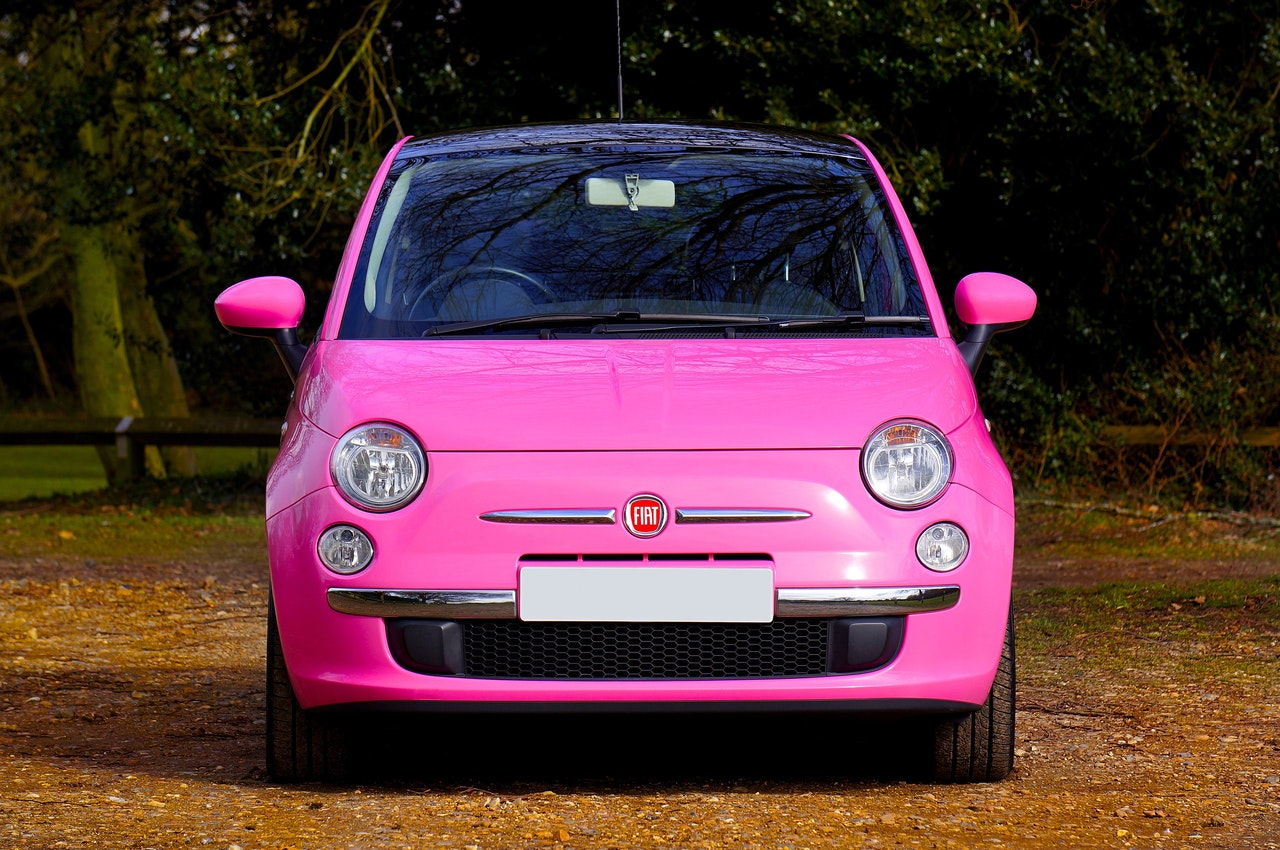
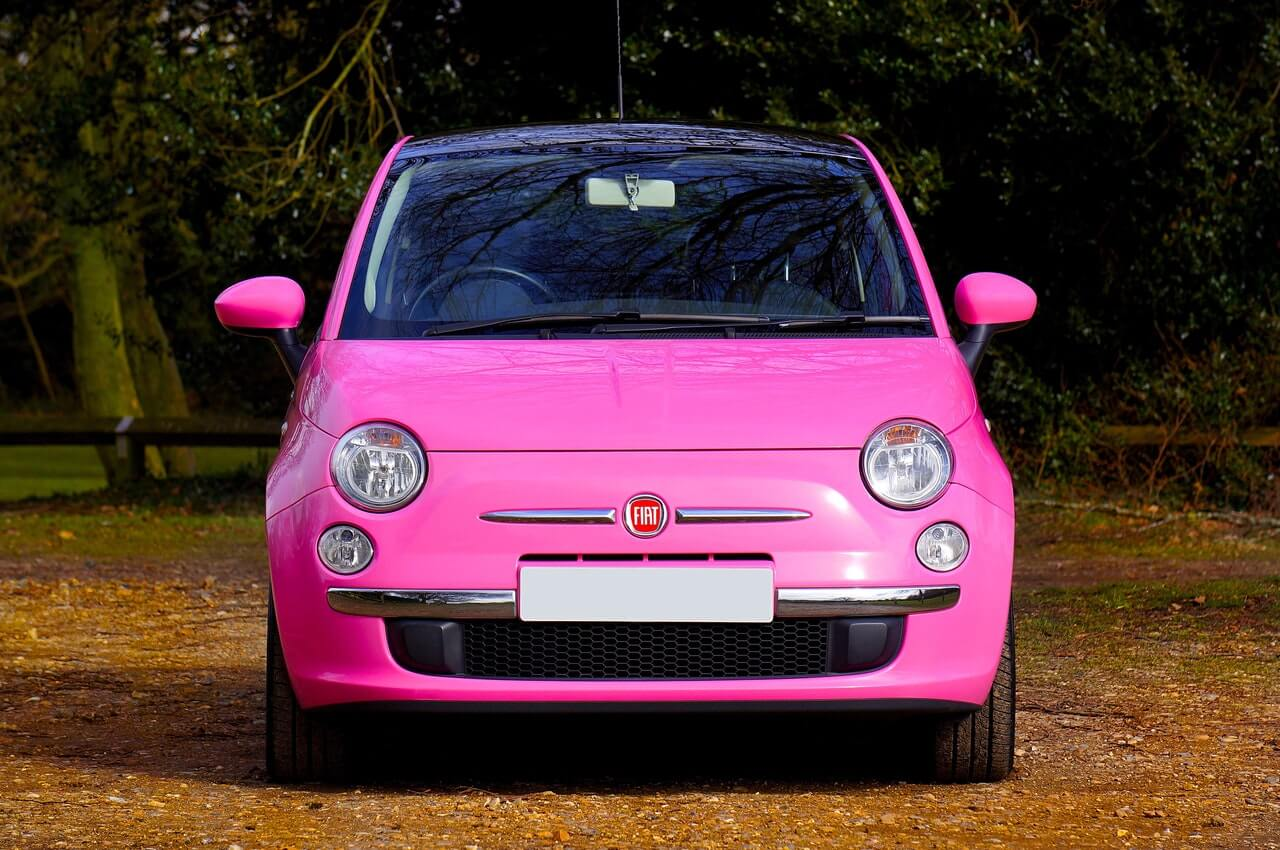
Compressed some images

diff --git a/src/styles.min.css b/src/styles.min.css
@@ -1,1 +1,1 @@
-@import url("https://fonts.googleapis.com/css2?family=DM+Sans:wght@400;500;700&display=swap");.banner{display:flex;flex-direction:column;align-items:center;justify-content:center;text-align:center;width:100%;min-height:200px;height:20vh;background-color:rgba(11,19,43,0.2);background-image:url("./img/car_main.jpg");background-position:center;background-repeat:no-repeat;background-size:cover;color:#fff;padding:1rem 1rem;margin-bottom:2rem;overflow:hidden}.banner .text-helper{background-color:rgba(0,0,0,0.4);border:1px solid #fff;border-radius:6px;padding:1rem 1rem;overflow:hidden}.banner h1{font-size:4rem;overflow:hidden}.banner p{font-size:2rem;overflow:hidden}@media only screen and (max-width: 1000px){.banner .text-helper h1{font-size:3rem}.banner .text-helper p{font-size:1.75rem}}@media only screen and (max-width: 700px){.banner .text-helper h1{font-size:1.8rem}.banner .text-helper p{font-size:1.1rem}}.navbar{width:100%;height:4rem;z-index:1;background-color:#0b132b;border-bottom:5px solid #6fffe9;font-size:1rem;display:flex;justify-content:space-between}.navbar img{border:1px solid red;border-radius:50px;height:2.5rem;width:2.5rem;margin:0.5rem 1rem 0.5rem 2.5rem;background-color:#fff}.navbar p{color:#fff;margin:1rem 0 0 0;font-size:1.2rem}.navbar .hamburger{z-index:1;padding:0 1rem 0 0;margin:0 1.4rem 0 0;display:flex;flex-direction:column;justify-content:center;display:none;overflow:hidden;user-select:none}.navbar .hamburger ul{display:flex;height:0px;width:100%;flex-direction:column;justify-content:center;align-items:center;position:absolute;top:59px;right:0px;margin:0 0 0 0rem;padding:0.5rem 1rem;opacity:0;background:transparent;color:#fff;list-style-type:none;overflow:hidden;-webkit-font-smoothing:antialiased;transform-origin:0% 0%;transform:translate(0%, -100%);transition:transform 0.4s cubic-bezier(0.77, 0.2, 0.05, 1),height 0.4s cubic-bezier(0.77, 0.2, 0.05, 1),opacity 0.7s cubic-bezier(0.77, 0.2, 0.05, 1)}.navbar .hamburger ul li{display:flex;justify-content:center;align-items:center;height:fit-content;margin:0.5rem 0.5rem;overflow:hidden;text-align:center}.navbar .hamburger ul li a{font-size:1rem;text-decoration:none;color:#fff;overflow:hidden;padding:0.25rem 0;margin:0 0}.navbar .hamburger ul li a:hover,.navbar .hamburger ul li a:focus{border-bottom:1px solid #6fffe9}.navbar .hamburger input:checked ~ ul{height:fit-content;opacity:1;background-color:#0b132b;border-bottom:5px solid #6fffe9;transform:none}.navbar .hamburger input{display:block;position:absolute;top:0;right:25px;z-index:2;cursor:pointer;width:60px;height:32px;height:3.7rem;opacity:0;-webkit-touch-callout:none}.navbar .hamburger div{display:block;width:33px;height:4px;position:relative;border-radius:6px;background:#fff;margin:4px 0;z-index:1;transform-origin:4px 0px;transition:transform 0.5s cubic-bezier(0.77, 0.2, 0.05, 1),opacity 0.55s ease}.navbar .hamburger div:first-of-type{transform-origin:0% 0%}.navbar .hamburger div:last-of-type{transform-origin:0% 100%}.navbar .hamburger input:checked ~ div{opacity:1;transform:rotate(45deg) translate(1px, -3px)}.navbar .hamburger input:checked ~ div:nth-child(3){opacity:0;transform:rotate(0deg) scale(0.2, 0.2)}.navbar .hamburger input:checked ~ div:last-of-type{transform:rotate(-45deg) translate(4px, -1px)}.navbar .desktop-menu-links{margin-left:auto;margin:0.5rem 2.5rem 0 auto;display:flex;flex-direction:row;list-style:none;overflow:hidden}.navbar .desktop-menu-links li{text-align:left;height:fit-content;display:flex}.navbar .desktop-menu-links a{text-decoration:none;color:#fff;margin:0 1rem 0 0;padding:0.5rem 0rem 0.2rem 0}.navbar .desktop-menu-links a:hover,.navbar .desktop-menu-links a:focus{border-bottom:1px solid #6fffe9}@media only screen and (max-width: 1000px){.navbar .hamburger{display:flex}.navbar p{font-size:1.2rem;margin-right:auto}.navbar .desktop-menu-links{display:none;flex-direction:column;margin:0 0 0 0;padding:1rem 0.5rem 0.3rem 0.5rem;position:absolute;top:50px;right:0;z-index:3;background-color:#0b132b}.navbar .desktop-menu-links li{height:2.5rem;overflow:hidden}.navbar .desktop-menu-links a{text-decoration:none;color:#fff;line-height:1;margin:0.5rem 0.5rem;font-size:0.9rem;overflow:hidden}}.main-grid{display:grid;grid-template-columns:repeat(5, 1fr);gap:1rem;overflow:hidden;padding-bottom:1rem}.main-grid .card{background-color:#0b132b;color:#fff;border:2px solid #6fffe9;min-height:400px;height:fit-content;width:100%;overflow:hidden}.main-grid .card .img-card-top{height:325px;object-fit:cover;width:100%;border-bottom:2px solid #fff;position:relative}.main-grid .card .card-title{color:#6fffe9;border-bottom:2px solid #6fffe9;font-size:1.2rem;text-align:center;margin:0.5rem 1.5rem 1rem 1.5rem;padding-bottom:0.3rem;text-transform:capitalize}.main-grid .card .card-text{color:#fff;font-size:0.9rem;text-align:center;margin:0.8rem 1rem;overflow:hidden;line-height:1.5}.main-grid .card .card-bottom-text{font-size:1.2rem;font-weight:500;text-align:center;margin:1rem 1.5rem;padding-top:0.3rem;border-top:2px solid #fff}.main-grid .card .card-bottom-text .previous-price{font-size:inherit;margin:0 0.8rem 0 0;font-style:italic;text-decoration:line-through #fff solid}.main-grid .card .card-bottom-text .now{font-size:inherit;color:#6fffe9;margin:0 0.4rem 0 0}.main-grid .card .inner-card-grid{display:grid;gap:1rem;grid-template-columns:repeat(3, 1fr);text-align:center;margin:0.8rem 1rem;padding:0 0 0 1.5rem;overflow:hidden}.main-grid .card .inner-card-grid .inner-card-grid-item{display:flex;flex-direction:row;overflow:hidden;text-transform:capitalize}.main-grid .card .inner-card-grid .inner-card-grid-item i{color:#6fffe9;font-size:2.2rem}.main-grid .card .inner-card-grid .inner-card-grid-item p{color:#fff;font-size:0.9rem;margin:0.5rem 0 0 0.5rem}.card:hover,.card:focus{transform:scale(1.03);transition:ease 0.6s;background-color:rgba(11,19,43,0.5);border:1px solid transparent}.card:hover .img-card-top,.card:focus .img-card-top{opacity:0.5;transition:ease 0.6s}.card:hover .card-title,.card:focus .card-title{color:rgba(111,255,233,0.5);transition:ease 0.6s}.card:hover .card-text,.card:focus .card-text{color:rgba(255,255,255,0.5);transition:ease 0.6s}.card:hover .card-bottom-text,.card:focus .card-bottom-text{color:rgba(255,255,255,0.5);transition:ease 0.6s}.card:hover .inner-card-grid .inner-card-grid-item i,.card:focus .inner-card-grid .inner-card-grid-item i{color:rgba(111,255,233,0.5);transition:ease 0.6s}.card:hover .inner-card-grid .inner-card-grid-item p,.card:focus .inner-card-grid .inner-card-grid-item p{color:rgba(255,255,255,0.5);transition:ease 0.6s}@media only screen and (max-width: 2200px){.main-grid .card .inner-card-grid{gap:0.9rem;grid-template-columns:1fr 1fr}.main-grid .card .inner-card-grid .inner-card-grid-item i{font-size:2rem}.main-grid .card .inner-card-grid .inner-card-grid-item p{margin:0.5rem 0 0 0.4rem}}@media only screen and (max-width: 1600px){.main-grid{grid-template-columns:1fr 1fr 1fr 1fr;gap:1rem}}@media only screen and (max-width: 1250px){.main-grid{grid-template-columns:1fr 1fr 1fr}}@media only screen and (max-width: 1000px){.main-grid{grid-template-columns:1fr 1fr;gap:1rem}}@media only screen and (max-width: 700px){.main-grid{grid-template-columns:1fr}.main-grid .card .inner-card-grid{gap:0.9rem;grid-template-columns:1fr 1fr}.main-grid .card .inner-card-grid .inner-card-grid-item p{font-size:1rem}}@media only screen and (max-width: 350px){.main-grid .card .inner-card-grid{gap:0.8rem;margin:0.8rem 0.3rem;padding:0 0 0 0.8rem}.main-grid .card .inner-card-grid .inner-card-grid-item p{font-size:0.9rem}}.info-grid{display:grid;gap:0;overflow:hidden;width:100%;border:2px solid #6fffe9;grid-template-columns:1fr 1fr 2fr;grid-auto-rows:minmax(150px, 300px)}.info-grid .info-grid-item{width:100%;height:100%;color:#fff;overflow:hidden}.info-grid .info-grid-item img{opacity:0.9;height:100%;object-fit:cover;width:100%}.info-grid .info-grid-item .info-grid-item-content{display:flex;flex-direction:column;overflow:hidden;padding:2rem}.info-grid .info-grid-item .info-grid-item-content h3{font-size:1.6rem;font-weight:700;overflow:hidden;margin:0 auto 0.5rem 0;border-bottom:solid 5px #6fffe9}.info-grid .info-grid-item .info-grid-item-content p{font-size:1.1rem;overflow:hidden;margin:0 0 1.5rem 0}.info-grid-item:first-child{background-color:grey}.info-grid-item:nth-child(3){grid-row:1/3}.info-grid-item:last-child{background-color:#0b132b}@media only screen and (max-width: 1000px){.info-grid{grid-template-columns:1fr 1fr 1fr;grid-auto-rows:minmax(150px, 200px)}.info-grid .info-grid-item .info-grid-item-content{padding:1rem}.info-grid .info-grid-item .info-grid-item-content h3{font-size:1.4rem}.info-grid .info-grid-item .info-grid-item-content p{font-size:1rem}}@media only screen and (max-width: 700px){.info-grid{grid-template-columns:0 1fr 1fr;grid-auto-rows:minmax(150px, 200px)}.info-grid .info-grid-item .info-grid-item-content{padding:0.5rem}.info-grid .info-grid-item .info-grid-item-content h3{font-size:1.2rem;margin:0 auto 0.5rem 0}.info-grid .info-grid-item .info-grid-item-content p{font-size:0.8rem;margin:0 0 1rem 0}.info-grid .info-grid-item .info-grid-item-content .btn,.info-grid .info-grid-item .info-grid-item-content .primary-btn,.info-grid .info-grid-item .info-grid-item-content .secondary-btn{border:2px solid;border-radius:6px;padding:0.4rem 0.5rem;font-size:0.9rem}}.footer{display:grid;grid-template-columns:1fr 1fr 1fr 1fr 1fr;gap:1rem;width:100vw;background-color:#0b132b;color:#fff;height:fit-content;padding:1rem 1.5rem}.footer ul{list-style:none;overflow:hidden;height:fit-content;width:fit-content}.footer .footer-title{color:#6fffe9;border-bottom:2px solid #6fffe9;font-size:1.1rem;text-align:center;margin:0.5rem 1.5rem}.footer li{overflow:hidden;width:fit-content}.footer p{text-decoration:none;color:#fff;line-height:1.8;width:fit-content}.footer a{text-decoration:none;color:#fff;line-height:2;width:fit-content;padding:0 0 0.2rem 0}.footer a i{vertical-align:middle;font-size:1.1rem;margin-right:0.2rem}.footer a:hover,.footer a:focus{border-bottom:1px solid #6fffe9}.credits{background-color:#0b132b;text-align:center;padding-bottom:1rem;margin-top:-1px}.credits a{text-decoration:none;font-size:0.9rem;color:#6fffe9}.credits a i{vertical-align:text-bottom;font-size:1.5rem}.credits a:hover,.credits a:focus{border-bottom:1px solid #6fffe9}@media only screen and (max-width: 1500px){.footer{grid-template-columns:1fr 1fr 1fr 1fr}}@media only screen and (max-width: 1000px){.footer{grid-template-columns:1fr 1fr 1fr;gap:0.5rem;padding:0.8rem 0 0.9rem 0.6rem}.footer ul a{font-size:0.9rem}.footer ul:last-of-type{display:none}}@media only screen and (max-width: 750px){.footer{grid-template-columns:1fr 1fr}.footer ul{padding-left:1.2rem}.footer ul .footer-title{font-size:1rem}.footer ul li{padding-right:0rem}.footer ul a{font-size:0.9rem}.footer ul p{font-size:0.9rem}}@media only screen and (max-width: 350px){.footer ul{padding:0 0.5rem 0 1.2rem}.footer ul .footer-title{font-size:0.9rem}.footer ul a{font-size:0.8rem}.footer ul p{font-size:0.8rem}.credits a{font-size:0.8rem}.credits a i{font-size:1.4rem}}*{box-sizing:border-box;font-family:'DM Sans', sans-serif;margin:0;font-size:16px;overflow-x:hidden}html{scroll-behavior:smooth}.container{width:100vw}.content{display:flex;flex-direction:column;width:100%;padding:1rem 2rem;margin:2vh 0 0 0}.section-heading{display:flex;flex-direction:row;justify-content:center;text-align:center;border-bottom:5px solid #6fffe9;margin:1rem auto 1.6rem 0}.section-heading h3{font-size:1.75rem;font-weight:700}.btn,.primary-btn,.secondary-btn{border:2px solid;border-radius:6px;padding:0.5rem 0.7rem;max-width:20%;min-width:fit-content;text-align:center;transition:all 0.1s ease}.primary-btn{background-color:#0b132b;color:#6fffe9}.secondary-btn{background-color:#757575;color:#fff}.btn:hover,.primary-btn:hover,.secondary-btn:hover,.btn:focus,.primary-btn:focus,.secondary-btn:focus{transform:translateY(-2px);box-shadow:1px 1px 10px #6fffe9;-moz-box-shadow:1px 1px 10px #6fffe9;-webkit-box-shadow:1px 1px 10px #6fffe9}.btn:active,.primary-btn:active,.secondary-btn:active{transform:translateY(-4px) scale(1.05)}.error{color:#fff}.error{background-color:red}body::-webkit-scrollbar{width:1rem}body::-webkit-scrollbar-track{background:#0b132b}body::-webkit-scrollbar-thumb{background:#6fffe9}@media only screen and (max-width: 700px){.content{margin:1vh 0 0 0}}
+@import url("https://fonts.googleapis.com/css2?family=DM+Sans:wght@400;500;700&display=swap");.banner{display:flex;flex-direction:column;align-items:center;justify-content:center;text-align:center;width:100%;min-height:200px;height:20vh;background-color:rgba(11,19,43,0.2);background-image:url("./img/car_main.jpg");background-position:center;background-repeat:no-repeat;background-size:cover;color:#fff;padding:1rem 1rem;margin:0 0 1.8rem 0;overflow:hidden}.banner .text-helper{background-color:rgba(0,0,0,0.4);border:1px solid #fff;border-radius:6px;padding:1rem 1rem;overflow:hidden}.banner h1{font-size:4rem;overflow:hidden}.banner p{font-size:2rem;overflow:hidden}@media only screen and (max-width: 1000px){.banner .text-helper h1{font-size:3rem}.banner .text-helper p{font-size:1.75rem}}@media only screen and (max-width: 700px){.banner .text-helper h1{font-size:1.8rem}.banner .text-helper p{font-size:1.1rem}}.navbar{width:100%;height:4rem;z-index:1;background-color:#0b132b;border-bottom:5px solid #6fffe9;font-size:1rem;display:flex;justify-content:space-between}.navbar img{border:1px solid red;border-radius:50px;height:2.5rem;width:2.5rem;margin:0.5rem 1rem 0.5rem 2.5rem;background-color:#fff}.navbar p{color:#fff;margin:1rem 0 0 0;font-size:1.2rem}.navbar .hamburger{z-index:1;padding:0 1rem 0 0;margin:0 1.4rem 0 0;display:flex;flex-direction:column;justify-content:center;display:none;overflow:hidden;user-select:none}.navbar .hamburger ul{display:flex;height:0px;width:100%;flex-direction:column;justify-content:center;align-items:center;position:absolute;top:59px;right:0px;margin:0 0 0 0rem;padding:0.5rem 1rem;opacity:0;background:transparent;color:#fff;list-style-type:none;overflow:hidden;-webkit-font-smoothing:antialiased;transform-origin:0% 0%;transform:translate(0%, -100%);transition:transform 0.4s cubic-bezier(0.77, 0.2, 0.05, 1),height 0.4s cubic-bezier(0.77, 0.2, 0.05, 1),opacity 0.7s cubic-bezier(0.77, 0.2, 0.05, 1)}.navbar .hamburger ul li{display:flex;justify-content:center;align-items:center;height:fit-content;margin:0.5rem 0.5rem;overflow:hidden;text-align:center}.navbar .hamburger ul li a{font-size:1rem;text-decoration:none;color:#fff;overflow:hidden;padding:0.25rem 0;margin:0 0}.navbar .hamburger ul li a:hover,.navbar .hamburger ul li a:focus{border-bottom:1px solid #6fffe9}.navbar .hamburger input:checked ~ ul{height:fit-content;opacity:1;background-color:#0b132b;border-bottom:5px solid #6fffe9;transform:none}.navbar .hamburger input{display:block;position:absolute;top:0;right:25px;z-index:2;cursor:pointer;width:60px;height:32px;height:3.7rem;opacity:0;-webkit-touch-callout:none}.navbar .hamburger div{display:block;width:33px;height:4px;position:relative;border-radius:6px;background:#fff;margin:4px 0;z-index:1;transform-origin:4px 0px;transition:transform 0.5s cubic-bezier(0.77, 0.2, 0.05, 1),opacity 0.55s ease}.navbar .hamburger div:first-of-type{transform-origin:0% 0%}.navbar .hamburger div:last-of-type{transform-origin:0% 100%}.navbar .hamburger input:checked ~ div{opacity:1;transform:rotate(45deg) translate(1px, -3px)}.navbar .hamburger input:checked ~ div:nth-child(3){opacity:0;transform:rotate(0deg) scale(0.2, 0.2)}.navbar .hamburger input:checked ~ div:last-of-type{transform:rotate(-45deg) translate(4px, -1px)}.navbar .desktop-menu-links{margin-left:auto;margin:0.5rem 2.5rem 0 auto;display:flex;flex-direction:row;list-style:none;overflow:hidden}.navbar .desktop-menu-links li{text-align:left;height:fit-content;display:flex}.navbar .desktop-menu-links a{text-decoration:none;color:#fff;margin:0 1rem 0 0;padding:0.5rem 0rem 0.2rem 0}.navbar .desktop-menu-links a:hover,.navbar .desktop-menu-links a:focus{border-bottom:1px solid #6fffe9}@media only screen and (max-width: 1000px){.navbar .hamburger{display:flex}.navbar p{font-size:1.2rem;margin-right:auto}.navbar .desktop-menu-links{display:none;flex-direction:column;margin:0 0 0 0;padding:1rem 0.5rem 0.3rem 0.5rem;position:absolute;top:50px;right:0;z-index:3;background-color:#0b132b}.navbar .desktop-menu-links li{height:2.5rem;overflow:hidden}.navbar .desktop-menu-links a{text-decoration:none;color:#fff;line-height:1;margin:0.5rem 0.5rem;font-size:0.9rem;overflow:hidden}}.main-grid{display:grid;grid-template-columns:repeat(5, 1fr);gap:1rem;overflow:hidden;padding-bottom:1rem}.main-grid .card{background-color:#0b132b;color:#fff;border:2px solid #6fffe9;min-height:400px;height:fit-content;width:100%;overflow:hidden}.main-grid .card .img-card-top{height:325px;object-fit:cover;width:100%;border-bottom:2px solid #fff;position:relative}.main-grid .card .card-title{color:#6fffe9;border-bottom:2px solid #6fffe9;font-size:1.2rem;text-align:center;margin:0.5rem 1.5rem 1rem 1.5rem;padding-bottom:0.3rem;text-transform:capitalize}.main-grid .card .card-text{color:#fff;font-size:0.9rem;text-align:center;margin:0.8rem 1rem;overflow:hidden;line-height:1.5}.main-grid .card .card-bottom-text{font-size:1.2rem;font-weight:500;text-align:center;margin:1rem 1.5rem;padding-top:0.3rem;border-top:2px solid #fff}.main-grid .card .card-bottom-text .previous-price{font-size:inherit;margin:0 0.8rem 0 0;font-style:italic;text-decoration:line-through #fff solid}.main-grid .card .card-bottom-text .now{font-size:inherit;color:#6fffe9;margin:0 0.4rem 0 0}.main-grid .card .inner-card-grid{display:grid;gap:1rem;grid-template-columns:repeat(3, 1fr);text-align:center;margin:0.8rem 1rem;padding:0 0 0 1.5rem;overflow:hidden}.main-grid .card .inner-card-grid .inner-card-grid-item{display:flex;flex-direction:row;overflow:hidden;text-transform:capitalize}.main-grid .card .inner-card-grid .inner-card-grid-item i{color:#6fffe9;font-size:2.2rem}.main-grid .card .inner-card-grid .inner-card-grid-item p{color:#fff;font-size:0.9rem;margin:0.5rem 0 0 0.5rem}.card:hover,.card:focus{transform:scale(1.03);transition:ease 0.6s;background-color:rgba(11,19,43,0.5);border:1px solid transparent}.card:hover .img-card-top,.card:focus .img-card-top{opacity:0.5;transition:ease 0.6s}.card:hover .card-title,.card:focus .card-title{color:rgba(111,255,233,0.5);transition:ease 0.6s}.card:hover .card-text,.card:focus .card-text{color:rgba(255,255,255,0.5);transition:ease 0.6s}.card:hover .card-bottom-text,.card:focus .card-bottom-text{color:rgba(255,255,255,0.5);transition:ease 0.6s}.card:hover .inner-card-grid .inner-card-grid-item i,.card:focus .inner-card-grid .inner-card-grid-item i{color:rgba(111,255,233,0.5);transition:ease 0.6s}.card:hover .inner-card-grid .inner-card-grid-item p,.card:focus .inner-card-grid .inner-card-grid-item p{color:rgba(255,255,255,0.5);transition:ease 0.6s}@media only screen and (max-width: 2200px){.main-grid .card .inner-card-grid{gap:0.9rem;grid-template-columns:1fr 1fr}.main-grid .card .inner-card-grid .inner-card-grid-item i{font-size:2rem}.main-grid .card .inner-card-grid .inner-card-grid-item p{margin:0.5rem 0 0 0.4rem}}@media only screen and (max-width: 1600px){.main-grid{grid-template-columns:1fr 1fr 1fr 1fr;gap:1rem}}@media only screen and (max-width: 1250px){.main-grid{grid-template-columns:1fr 1fr 1fr}}@media only screen and (max-width: 1000px){.main-grid{grid-template-columns:1fr 1fr;gap:1rem}}@media only screen and (max-width: 700px){.main-grid{grid-template-columns:1fr}.main-grid .card .inner-card-grid{gap:0.9rem;grid-template-columns:1fr 1fr}.main-grid .card .inner-card-grid .inner-card-grid-item p{font-size:1rem}}@media only screen and (max-width: 350px){.main-grid .card .inner-card-grid{gap:0.8rem;margin:0.8rem 0.3rem;padding:0 0 0 0.8rem}.main-grid .card .inner-card-grid .inner-card-grid-item p{font-size:0.9rem}}.info-grid{display:grid;gap:0;overflow:hidden;width:100%;border:2px solid #6fffe9;grid-template-columns:1fr 1fr 2fr;grid-auto-rows:minmax(150px, 300px)}.info-grid .info-grid-item{width:100%;height:100%;color:#fff;overflow:hidden}.info-grid .info-grid-item img{opacity:0.9;height:100%;object-fit:cover;width:100%}.info-grid .info-grid-item .info-grid-item-content{display:flex;flex-direction:column;overflow:hidden;padding:2rem}.info-grid .info-grid-item .info-grid-item-content h3{font-size:1.6rem;font-weight:700;overflow:hidden;margin:0 auto 0.5rem 0;border-bottom:solid 5px #6fffe9}.info-grid .info-grid-item .info-grid-item-content p{font-size:1.1rem;overflow:hidden;margin:0 0 1.5rem 0}.info-grid-item:first-child{background-color:grey}.info-grid-item:nth-child(3){grid-row:1/3}.info-grid-item:last-child{background-color:#0b132b}@media only screen and (max-width: 1000px){.info-grid{grid-template-columns:1fr 1fr 1fr;grid-auto-rows:minmax(150px, 200px)}.info-grid .info-grid-item .info-grid-item-content{padding:1rem}.info-grid .info-grid-item .info-grid-item-content h3{font-size:1.4rem}.info-grid .info-grid-item .info-grid-item-content p{font-size:1rem}}@media only screen and (max-width: 700px){.info-grid{grid-template-columns:0 1fr 1fr;grid-auto-rows:minmax(150px, 200px)}.info-grid .info-grid-item .info-grid-item-content{padding:0.5rem}.info-grid .info-grid-item .info-grid-item-content h3{font-size:1.2rem;margin:0 auto 0.5rem 0}.info-grid .info-grid-item .info-grid-item-content p{font-size:0.8rem;margin:0 0 1rem 0}.info-grid .info-grid-item .info-grid-item-content .btn,.info-grid .info-grid-item .info-grid-item-content .primary-btn,.info-grid .info-grid-item .info-grid-item-content .secondary-btn{border:2px solid;border-radius:6px;padding:0.4rem 0.5rem;font-size:0.9rem}}.footer{display:grid;grid-template-columns:1fr 1fr 1fr 1fr 1fr;gap:1rem;width:100vw;background-color:#0b132b;color:#fff;height:fit-content;padding:1rem 1.5rem}.footer ul{list-style:none;overflow:hidden;height:fit-content;width:fit-content}.footer .footer-title{color:#6fffe9;border-bottom:2px solid #6fffe9;font-size:1.1rem;text-align:center;margin:0.5rem 1.5rem}.footer li{overflow:hidden;width:fit-content}.footer p{text-decoration:none;color:#fff;line-height:1.8;width:fit-content}.footer a{text-decoration:none;color:#fff;line-height:2;width:fit-content;padding:0 0 0.2rem 0}.footer a i{vertical-align:middle;font-size:1.1rem;margin-right:0.2rem}.footer a:hover,.footer a:focus{border-bottom:1px solid #6fffe9}.credits{background-color:#0b132b;text-align:center;padding-bottom:1rem;margin-top:-1px}.credits a{text-decoration:none;font-size:0.9rem;color:#6fffe9}.credits a i{vertical-align:text-bottom;font-size:1.5rem}.credits a:hover,.credits a:focus{border-bottom:1px solid #6fffe9}@media only screen and (max-width: 1500px){.footer{grid-template-columns:1fr 1fr 1fr 1fr}}@media only screen and (max-width: 1000px){.footer{grid-template-columns:1fr 1fr 1fr;gap:0.5rem;padding:0.8rem 0 0.9rem 0.6rem}.footer ul a{font-size:0.9rem}.footer ul:last-of-type{display:none}}@media only screen and (max-width: 750px){.footer{grid-template-columns:1fr 1fr}.footer ul{padding-left:1.2rem}.footer ul .footer-title{font-size:1rem}.footer ul li{padding-right:0rem}.footer ul a{font-size:0.9rem}.footer ul p{font-size:0.9rem}}@media only screen and (max-width: 350px){.footer ul{padding:0 0.5rem 0 1.2rem}.footer ul .footer-title{font-size:0.9rem}.footer ul a{font-size:0.8rem}.footer ul p{font-size:0.8rem}.credits a{font-size:0.8rem}.credits a i{font-size:1.4rem}}*{box-sizing:border-box;font-family:'DM Sans', sans-serif;margin:0;font-size:16px;overflow-x:hidden}html{scroll-behavior:smooth}.container{width:100vw}.content{display:flex;flex-direction:column;width:100%;padding:1rem 2rem;margin:2vh 0 0 0}.section-heading{display:flex;flex-direction:row;justify-content:center;text-align:center;border-bottom:5px solid #6fffe9;margin:1rem auto 1.6rem 0}.section-heading h3{font-size:1.75rem;font-weight:700}.btn,.primary-btn,.secondary-btn{border:2px solid;border-radius:6px;padding:0.5rem 0.7rem;max-width:20%;min-width:fit-content;text-align:center;transition:all 0.1s ease}.primary-btn{background-color:#0b132b;color:#6fffe9}.secondary-btn{background-color:#757575;color:#fff}.btn:hover,.primary-btn:hover,.secondary-btn:hover,.btn:focus,.primary-btn:focus,.secondary-btn:focus{transform:translateY(-2px);box-shadow:1px 1px 10px #6fffe9;-moz-box-shadow:1px 1px 10px #6fffe9;-webkit-box-shadow:1px 1px 10px #6fffe9}.btn:active,.primary-btn:active,.secondary-btn:active{transform:translateY(-4px) scale(1.05)}.error{color:#fff}.error{background-color:red}body::-webkit-scrollbar{width:1rem}body::-webkit-scrollbar-track{background:#0b132b}body::-webkit-scrollbar-thumb{background:#6fffe9}@media only screen and (max-width: 700px){.content{margin:1vh 0 0 0}}

diff --git a/src/scss/_banner.scss b/src/scss/_banner.scss
@@ -20,7 +20,7 @@ $black: #000;
   background-size: cover;
   color: $primary-text;
   padding: 1rem 1rem;
-  margin-bottom: 2rem;
+  margin: 0 0 1.8rem 0;
   overflow: hidden;
 
   .text-helper {
